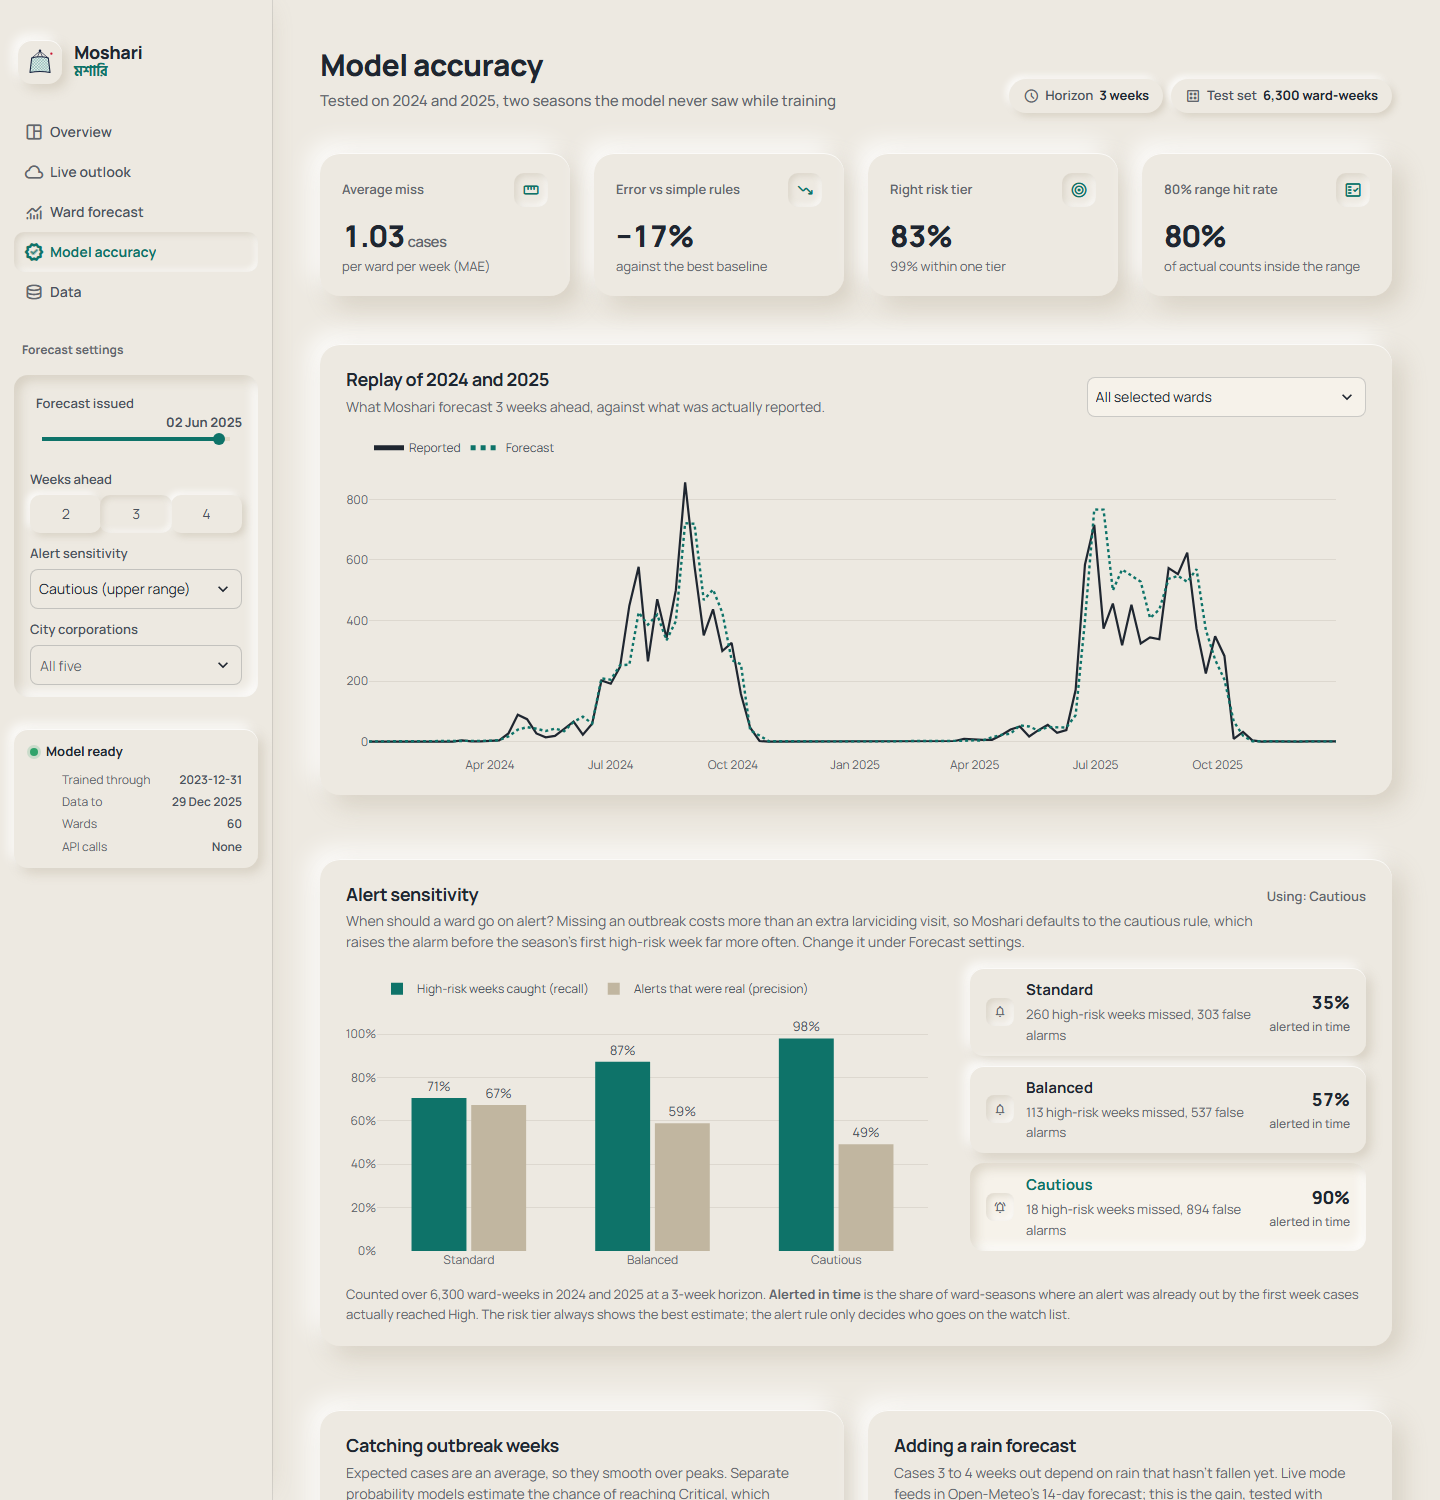
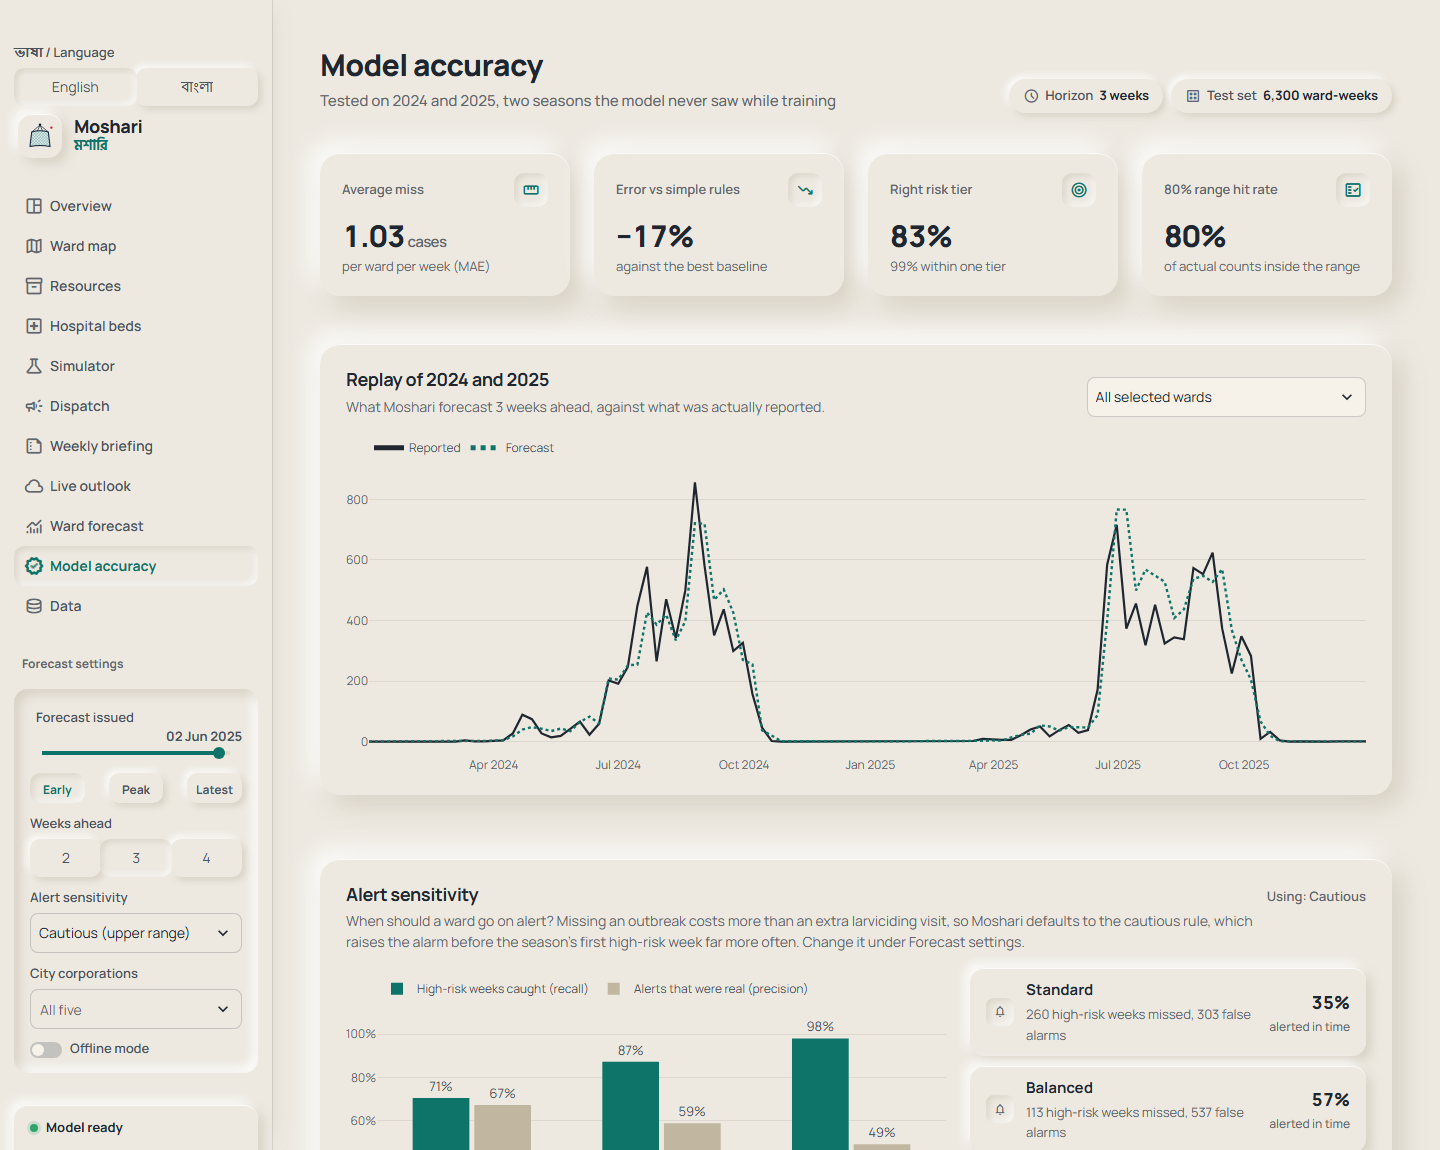
version-onsite-final: README with a screenshot tour of every page
Fresh screenshots of the current app (Overview, Ward map, Resources, Hospital
beds, Simulator, Dispatch in English and Bangla, Weekly briefing, Ward forecast,
Model accuracy, Live outlook), captured headless at 1440 px from deep links so
each shows the demo week. Round-one images replaced.

README: centred header with CI, tests, offline, Python and licence badges and
quick links; the Overview as the hero image; a one-line table of the five
Phase 2 modules; a two-column 'tour in screenshots' in sidebar order whose
captions use the verified demo numbers.

diff --git a/README.md b/README.md
@@ -1,14 +1,45 @@
 <p align="center">
-  <img src="assets/logo.svg" width="88" alt="Moshari logo: a mosquito net with a mosquito kept outside">
+  <img src="assets/logo.svg" width="96" alt="Moshari logo: a mosquito net with a mosquito kept outside">
 </p>
 
 <h1 align="center">Moshari (মশারি)</h1>
 
-<p align="center"><b>Ward-level dengue early warning for Dhaka, Chattogram, Gazipur and Narayanganj.</b></p>
+<p align="center"><b>Ward-level dengue early warning, from forecast to saline, beds, crews and a message, before dengue reaches the hospital.</b><br>
+60 wards · Dhaka North and South, Chattogram, Gazipur, Narayanganj · English and বাংলা · works offline</p>
+
+<p align="center">
+  <a href="https://github.com/yasinDoc/moshari/actions/workflows/ci.yml"><img alt="CI" src="https://github.com/yasinDoc/moshari/actions/workflows/ci.yml/badge.svg"></a>
+  <img alt="Tests: 1400 passing" src="https://img.shields.io/badge/tests-1400%20passing-0E7369">
+  <img alt="Offline: 11 of 11 pages" src="https://img.shields.io/badge/offline-11%2F11%20pages-0E7369">
+  <img alt="Python 3.10+" src="https://img.shields.io/badge/python-3.10%2B-3776AB">
+  <a href="LICENSE"><img alt="License: MIT" src="https://img.shields.io/badge/license-MIT-62666C"></a>
+</p>
+
+<p align="center">
+  <a href="https://moshari-sa5dxzxydg98ej4umhvbst.streamlit.app/"><b>Live app</b></a> ·
+  <a href="#a-tour-in-screenshots"><b>Screenshots</b></a> ·
+  <a href="docs/video_script.md"><b>7-minute demo script</b></a> ·
+  <a href="ARCHITECTURE.md"><b>Architecture</b></a> ·
+  <a href="docs/qa_prep.md"><b>Q&amp;A</b></a> ·
+  <a href="#run-it-locally"><b>Run it locally</b></a>
+</p>
+
+<p align="center">
+  <img src="docs/img/overview.png" width="920" alt="Overview: a red supply alert line, four stat tiles and all 60 wards as tiles coloured by forecast risk">
+</p>
 
 *Moshari* is Bangla for mosquito net. A net protects one family. Moshari helps protect whole wards by forecasting dengue cases **2 to 4 weeks ahead** from weather. That gives city corporations time to send larvicide and fogging teams *before* hospital admissions climb.
 
 Phase 2 turns the forecast into operations: how many saline bags, test kits, beds and spraying crews each ward gets when stock is short, where overflow patients go within their own city, how many cases extra crews would prevent, and the SMS, WhatsApp and printed notices that tell officers what to do. A Weekly briefing turns all of it into one decision on one page, a Ward map shows the risk on real ward outlines, and the whole dashboard, its notices and its PDFs switch between English and Bangla. It all works with the internet off.
+
+| Phase 2 module | Where | In one line |
+|---|---|---|
+| 1. Resource allocation | **Resources** | Fitted demand per case, risk × density priority, scarce stock filled top-down, crews to High and Critical wards |
+| 2. Hospital overflow routing | **Hospital beds** | Capacity from each ward's own history; overflow moves to the least-loaded ward in the same city; the rest shown in red |
+| 3. Vector control simulator | **Simulator** | Crews cut the breeding signal and monotone models re-run the forecast: cases, beds and saline saved, ROI per crew |
+| 4. Dispatch notices | **Dispatch** | One-segment SMS, WhatsApp and a printable brief per ward, in English or Bangla; batch zip; samples in `exports/` |
+| 5. Offline resilience | Sidebar switch | Every page runs with the internet cut off; only Live outlook ever calls an API, and it falls back to saved weather |
+| All five as one decision | **Weekly briefing** | Four sentences and a one-page PDF for the city health officer |
 
 ## Results at a glance
 
@@ -44,9 +75,7 @@ Phase 2, on the demo week (forecast issued 2 June 2025, 3 weeks ahead):
 
 **Demo video, round one (3 min):** https://youtu.be/tghizcy3_V8. The 7-minute final-round video follows [docs/video_script.md](docs/video_script.md).
 
-[![Watch the Moshari demo on YouTube](https://img.youtube.com/vi/tghizcy3_V8/hqdefault.jpg)](https://youtu.be/tghizcy3_V8)
-
-![Ward overview: all 60 wards as tiles in a net, coloured by forecast risk](docs/img/ward-net.png)
+[![Watch the round-one Moshari demo on YouTube](https://img.youtube.com/vi/tghizcy3_V8/hqdefault.jpg)](https://youtu.be/tghizcy3_V8)
 
 ## Run it locally
 
@@ -128,9 +157,62 @@ The sidebar follows an officer's working order: see the risk, allocate supplies,
 
 **English or বাংলা.** The **ভাষা / Language** switch at the top of the sidebar turns every page into Bangla: headings, tables, charts, hover labels and tips, with Bangla digits and month names (২৩ জুন ২০২৫) and ward names such as "DNCC ওয়ার্ড ১২". English is the default and reads exactly as before. The choice stays while you move between pages, and a link with `?lang=bn` opens the dashboard in Bangla. The Dispatch notices start in the same language (you can still pick the other one there). Codes (DNCC, W12), product names and CSV/ZIP downloads stay as they are. The texts live in one file, `src/moshari/locales/bn.json`, so a Bangla reader can correct a wording without touching code. A few things Streamlit draws itself (the file uploader's own text, the table toolbar, the digits on sliders and number boxes) stay in English. The Weekly briefing PDF follows the switch too: in Bangla it is drawn with the bundled Noto Sans Bengali font (`src/moshari/fonts/`, SIL Open Font License) and `uharfbuzz`, so joined letters print correctly, while the English PDF is unchanged.
 
-![Ward forecast: outlook, rain-to-cases chart and drivers](docs/img/ward-forecast.png)
+## A tour in screenshots
 
-![Live outlook: real Open-Meteo weather for five cities, run through the model](docs/img/live.png)
+One health officer's week, in the order of the sidebar. Every shot is the real app, forecast issued 2 June 2025 for 3 weeks ahead unless noted, and the numbers match the [demo script](docs/video_script.md).
+
+<table>
+<tr>
+<td width="50%" valign="top">
+<img src="docs/img/ward-map.png" alt="Ward map: wards coloured by risk on real ward outlines"><br>
+<b>Ward map.</b> The same risk on real ward outlines, bundled with the app (no map tiles, works offline). Positions are illustrative, and the page says so.
+</td>
+<td width="50%" valign="top">
+<img src="docs/img/resources.png" alt="Resources: 70% stock, 25 wards in deficit, none High or Critical"><br>
+<b>1. Resources.</b> At 70% stock the 35 highest-priority wards get everything; 25 come up short and <i>none</i> of them is High risk. 52 crews needed, 40 assigned.
+</td>
+</tr>
+<tr>
+<td width="50%" valign="top">
+<img src="docs/img/hospital.png" alt="Hospital beds on 7 Aug 2023: 2 patients moved, 5 still short"><br>
+<b>2. Hospital beds</b> (issued 7 Aug 2023). Capacity is each ward's own 90th-percentile bed demand. Two patients move within their city; five still need a bed, in red.
+</td>
+<td width="50%" valign="top">
+<img src="docs/img/simulator.png" alt="Simulator: 30 crews prevent 220 cases over weeks 2 to 4"><br>
+<b>3. Simulator.</b> 30 crews prevent about 220 cases over weeks 2 to 4 (−30, −48, −142). A monotone model means a crew can never raise a forecast.
+</td>
+</tr>
+<tr>
+<td width="50%" valign="top">
+<img src="docs/img/dispatch.png" alt="Dispatch: 26 notices ready and the SMS for DSCC Ward 04"><br>
+<b>4. Dispatch.</b> 26 High wards, each with a one-segment SMS, a WhatsApp message and a printable brief. Download one, a zip, or one printable file.
+</td>
+<td width="50%" valign="top">
+<img src="docs/img/dispatch-bn.png" alt="Dispatch in Bangla: the whole dashboard and the SMS in Bangla"><br>
+<b>বাংলা.</b> One switch turns every page, notice and PDF into Bangla. Bangla SMS are Unicode, so they are held to two parts, and shortages are never cut.
+</td>
+</tr>
+<tr>
+<td width="50%" valign="top">
+<img src="docs/img/briefing.png" alt="Weekly briefing: the four-sentence decision and the PDF button"><br>
+<b>Weekly briefing.</b> All five modules as one decision: 26 wards High, approve 12 crews, release 296 saline bags and 148 test kits, no transfers. One-page PDF.
+</td>
+<td width="50%" valign="top">
+<img src="docs/img/ward-forecast.png" alt="Ward forecast for DNCC Ward 12: High risk, outlook and drivers"><br>
+<b>Ward forecast.</b> One ward's 2-, 3- and 4-week outlook with an 80% range, the chance of High and Critical, the drivers behind it, and what-if sliders.
+</td>
+</tr>
+<tr>
+<td width="50%" valign="top">
+<img src="docs/img/accuracy.png" alt="Model accuracy: MAE 1.03, 17% better than baselines"><br>
+<b>Model accuracy.</b> Tested on 2024–25, never seen in training: 1.03 cases off per ward per week, 17% better than the best simple rule, 83% in the right tier.
+</td>
+<td width="50%" valign="top">
+<img src="docs/img/live.png" alt="Live outlook: real Open-Meteo rainfall for five cities"><br>
+<b>Live outlook.</b> Today's real Open-Meteo weather for all five cities in one cached request, run through the same model. The only page that uses the internet.
+</td>
+</tr>
+</table>
 
 ## REST API
 
